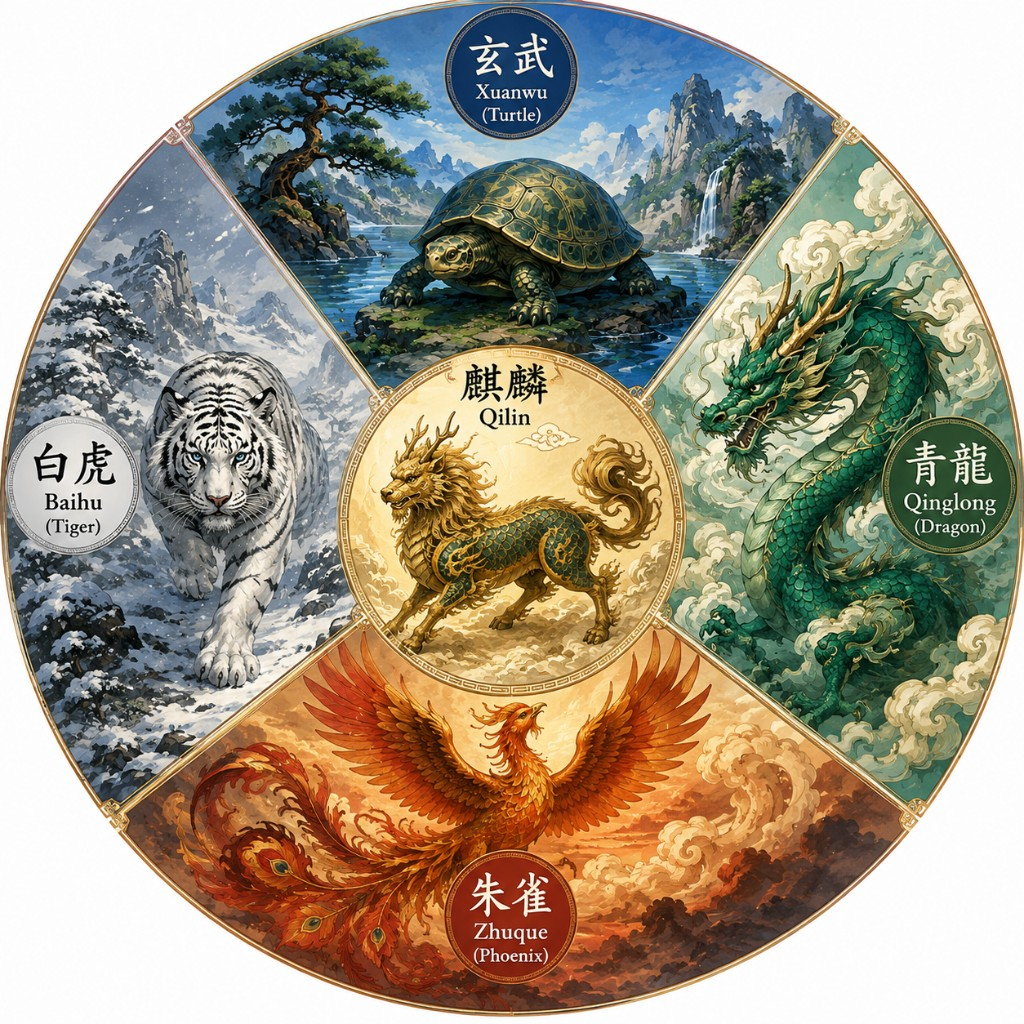
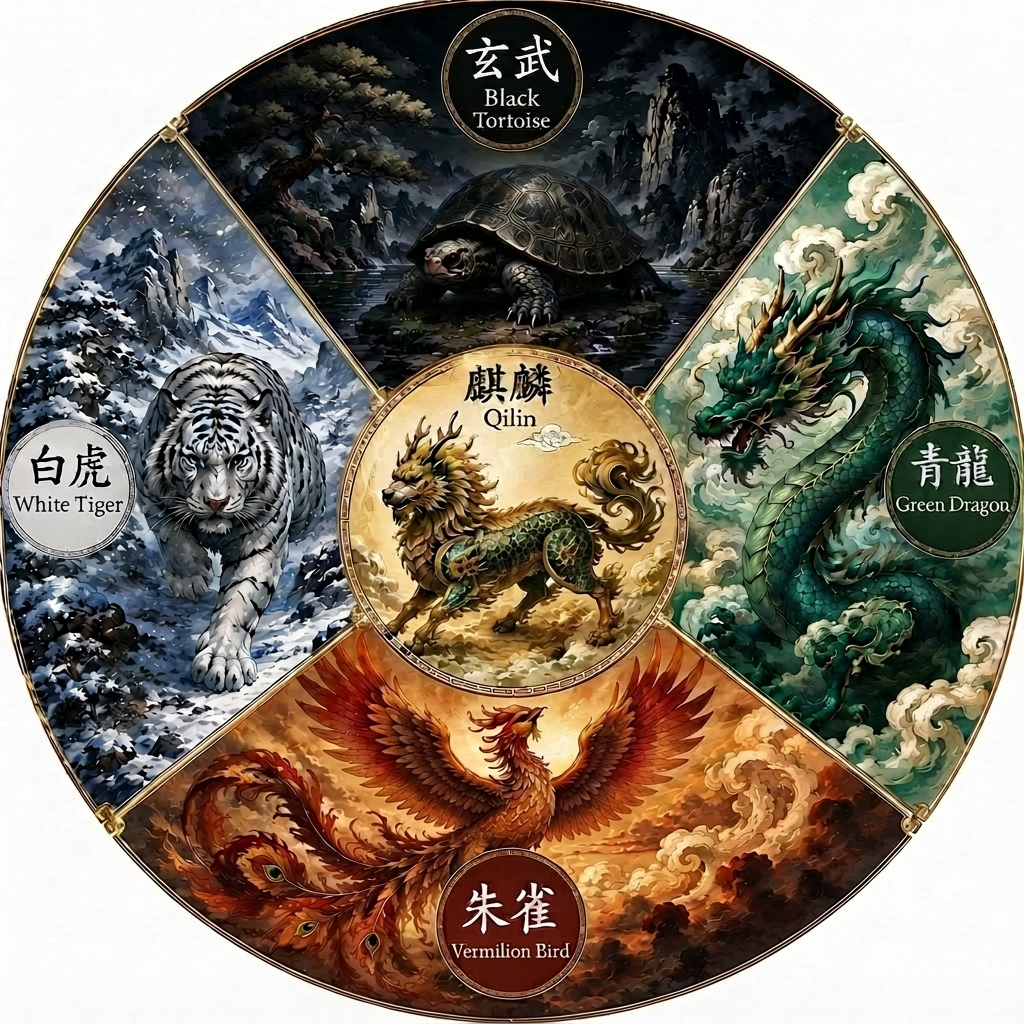
Update compass artwork, correct animal names, and fix question layout
Refresh the five-animals compass image, rename bearings to match its
labels (Green Dragon, Vermilion Bird, White Tiger, Black Tortoise), and
fix the questions page so options no longer stretch with huge gaps and
the back button no longer overlaps content.

Bump version to 1.0.2.

diff --git a/src/data/bearings.ts b/src/data/bearings.ts
@@ -32,7 +32,7 @@ export const BEARINGS: Bearing[] = [
     order: 1,
     direction: localized('East', '東'),
     element: localized('Wood', '木'),
-    animal: localized('Dragon', '龍'),
+    animal: localized('Green Dragon', '青龍'),
     glyph: '龍',
     virtue: localized('Benevolence', '仁'),
     blurb: localized(
@@ -57,7 +57,7 @@ export const BEARINGS: Bearing[] = [
     order: 2,
     direction: localized('South', '南'),
     element: localized('Fire', '火'),
-    animal: localized('Phoenix', '鳳'),
+    animal: localized('Vermilion Bird', '朱雀'),
     glyph: '鳳',
     virtue: localized('Propriety', '禮'),
     blurb: localized(
@@ -107,7 +107,7 @@ export const BEARINGS: Bearing[] = [
     order: 4,
     direction: localized('West', '西'),
     element: localized('Metal', '金'),
-    animal: localized('Tiger', '虎'),
+    animal: localized('White Tiger', '白虎'),
     glyph: '虎',
     virtue: localized('Righteousness', '義'),
     blurb: localized(
@@ -132,7 +132,7 @@ export const BEARINGS: Bearing[] = [
     order: 5,
     direction: localized('North', '北'),
     element: localized('Water', '水'),
-    animal: localized('Turtle', '龜'),
+    animal: localized('Black Tortoise', '玄武'),
     glyph: '龜',
     virtue: localized('Wisdom', '智'),
     blurb: localized(

diff --git a/src/styles/components.css b/src/styles/components.css
@@ -209,7 +209,6 @@
   width: 100%;
   display: flex;
   flex-direction: column;
-  overflow-y: auto;
 }
 
 .questionsKind {
@@ -246,8 +245,10 @@
   min-height: 0;
   display: flex;
   flex-direction: column;
-  justify-content: space-between;
-  gap: var(--space-2);
+  justify-content: flex-start;
+  gap: var(--space-3);
+  overflow-y: auto;
+  padding: 2px;
 }
 
 .questionsOptions .optionRow {
